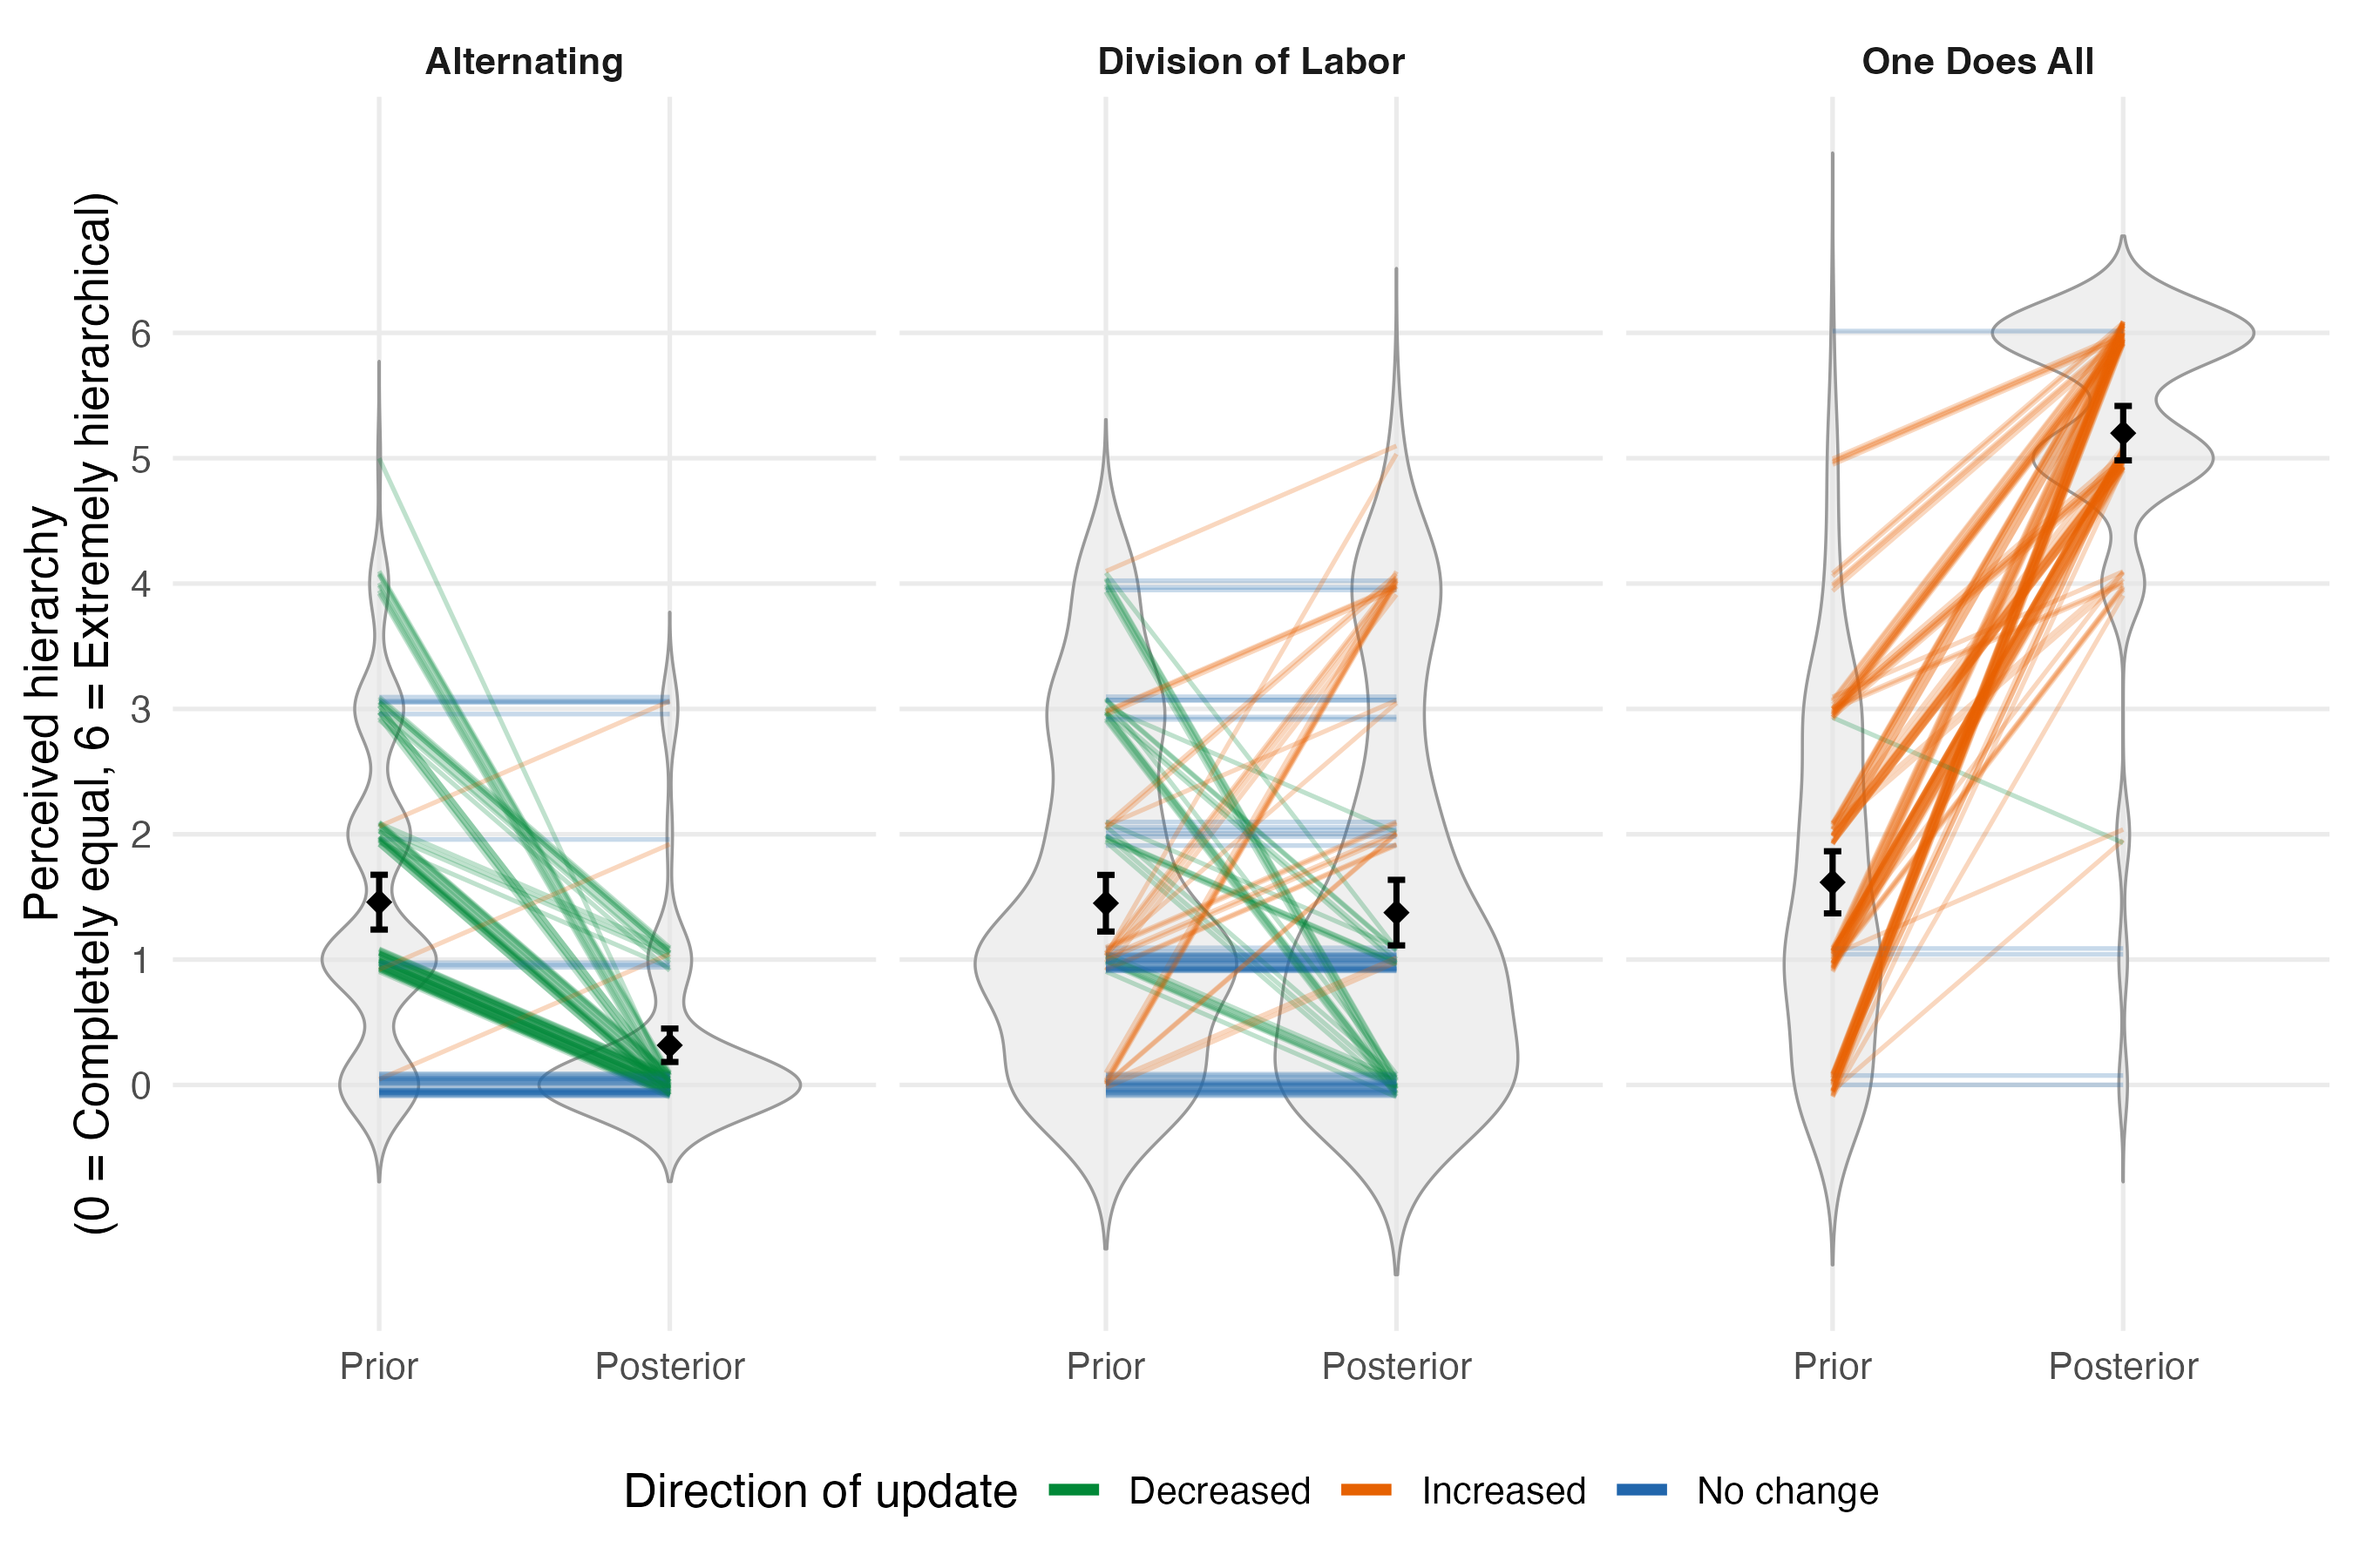
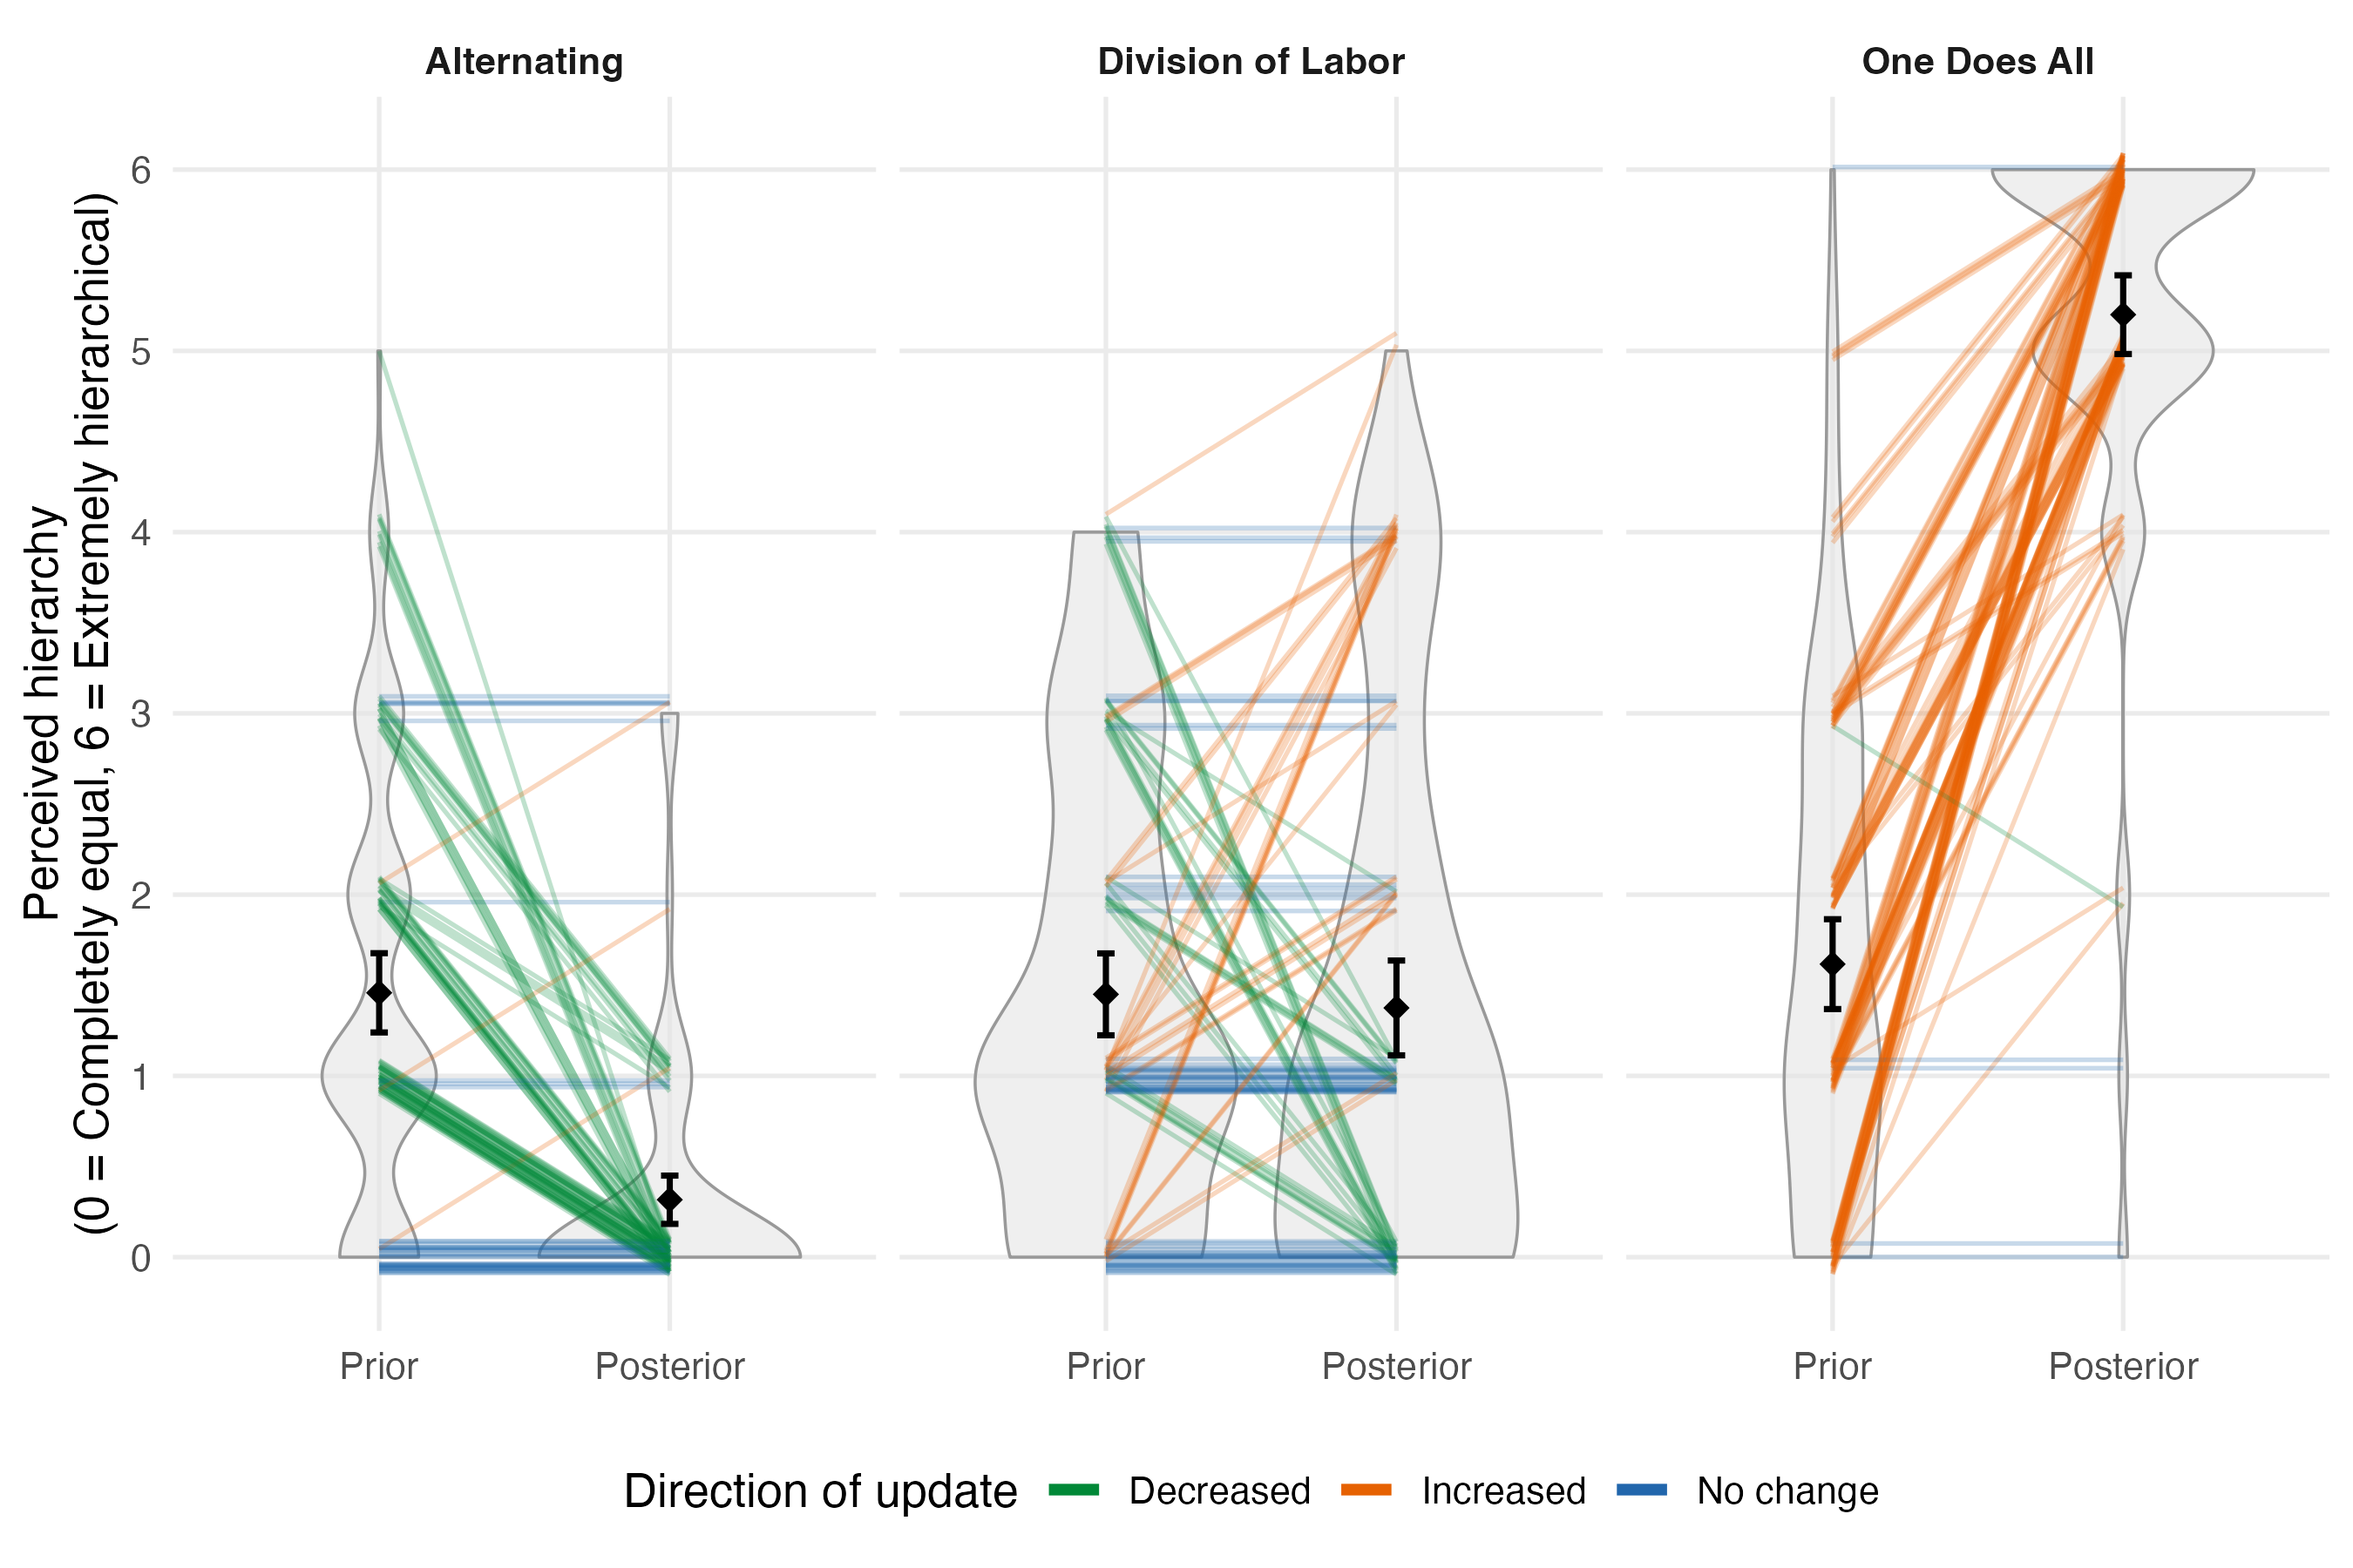
Correcting label and typos from R scripts
- Use here::here() for paths so the figures script runs from any folder
- Rename exp1_plot to individual_ratings_plot
- Trim violins to the 0-6 rating scale
- Fix comment typos
- Conversion script now maps subject IDs to P01, P02, ... and drops
  subject_id, study_id, session_id and url instead of hashing them

diff --git a/equal_cost_gender/data/equal_cost_gender_data_conversion.py b/equal_cost_gender/data/equal_cost_gender_data_conversion.py
@@ -1,13 +1,6 @@
 from zipfile import ZipFile
-import hashlib
 import json
 import pandas as pd
-
-
-def hash_id(raw):
-    if pd.isna(raw) or raw == "":
-        return raw
-    return hashlib.sha256(str(raw).encode()).hexdigest()[:24]
 
 
 zip_path = "osfstorage-archive.zip"
@@ -19,23 +12,21 @@ with ZipFile(zip_path) as zf:
             data = json.loads(zf.read(filename))
 
             for trial in data:
-                trial = dict(trial)
-                trial["source_file"] = filename
-                rows.append(trial)
+                rows.append(dict(trial))
 
 df = pd.DataFrame(rows)
 
-df["subject_id"] = df["subject_id"].apply(hash_id)
-df["study_id"] = df["study_id"].apply(hash_id)
-df["session_id"] = df["session_id"].apply(hash_id)
-df["source_file"] = df["source_file"].apply(
-    lambda f: hash_id(f.replace(".json", "")) + ".json" if isinstance(f, str) else f
-)
-if "url" in df.columns:
-    df = df.drop(columns=["url"])
+# Replace subject IDs with anonymous labels (P01, P02, ...) in order of appearance
+subject_order = df["subject_id"].drop_duplicates().tolist()
+anon_map = {sid: f"P{i + 1:02d}" for i, sid in enumerate(subject_order)}
+df.insert(0, "anon_id", df["subject_id"].map(anon_map))
+
+# Drop every column that could link a row back to a Prolific account
+identifying_columns = ["subject_id", "study_id", "session_id", "url"]
+df = df.drop(columns=[c for c in identifying_columns if c in df.columns])
 
 df.to_csv("mit_exp2a_raw_data.csv", index=False)
 
 print("Done!")
 print("Rows:", len(df))
-print("Participants:", df["subject_id"].nunique())
+print("Participants:", df["anon_id"].nunique())
